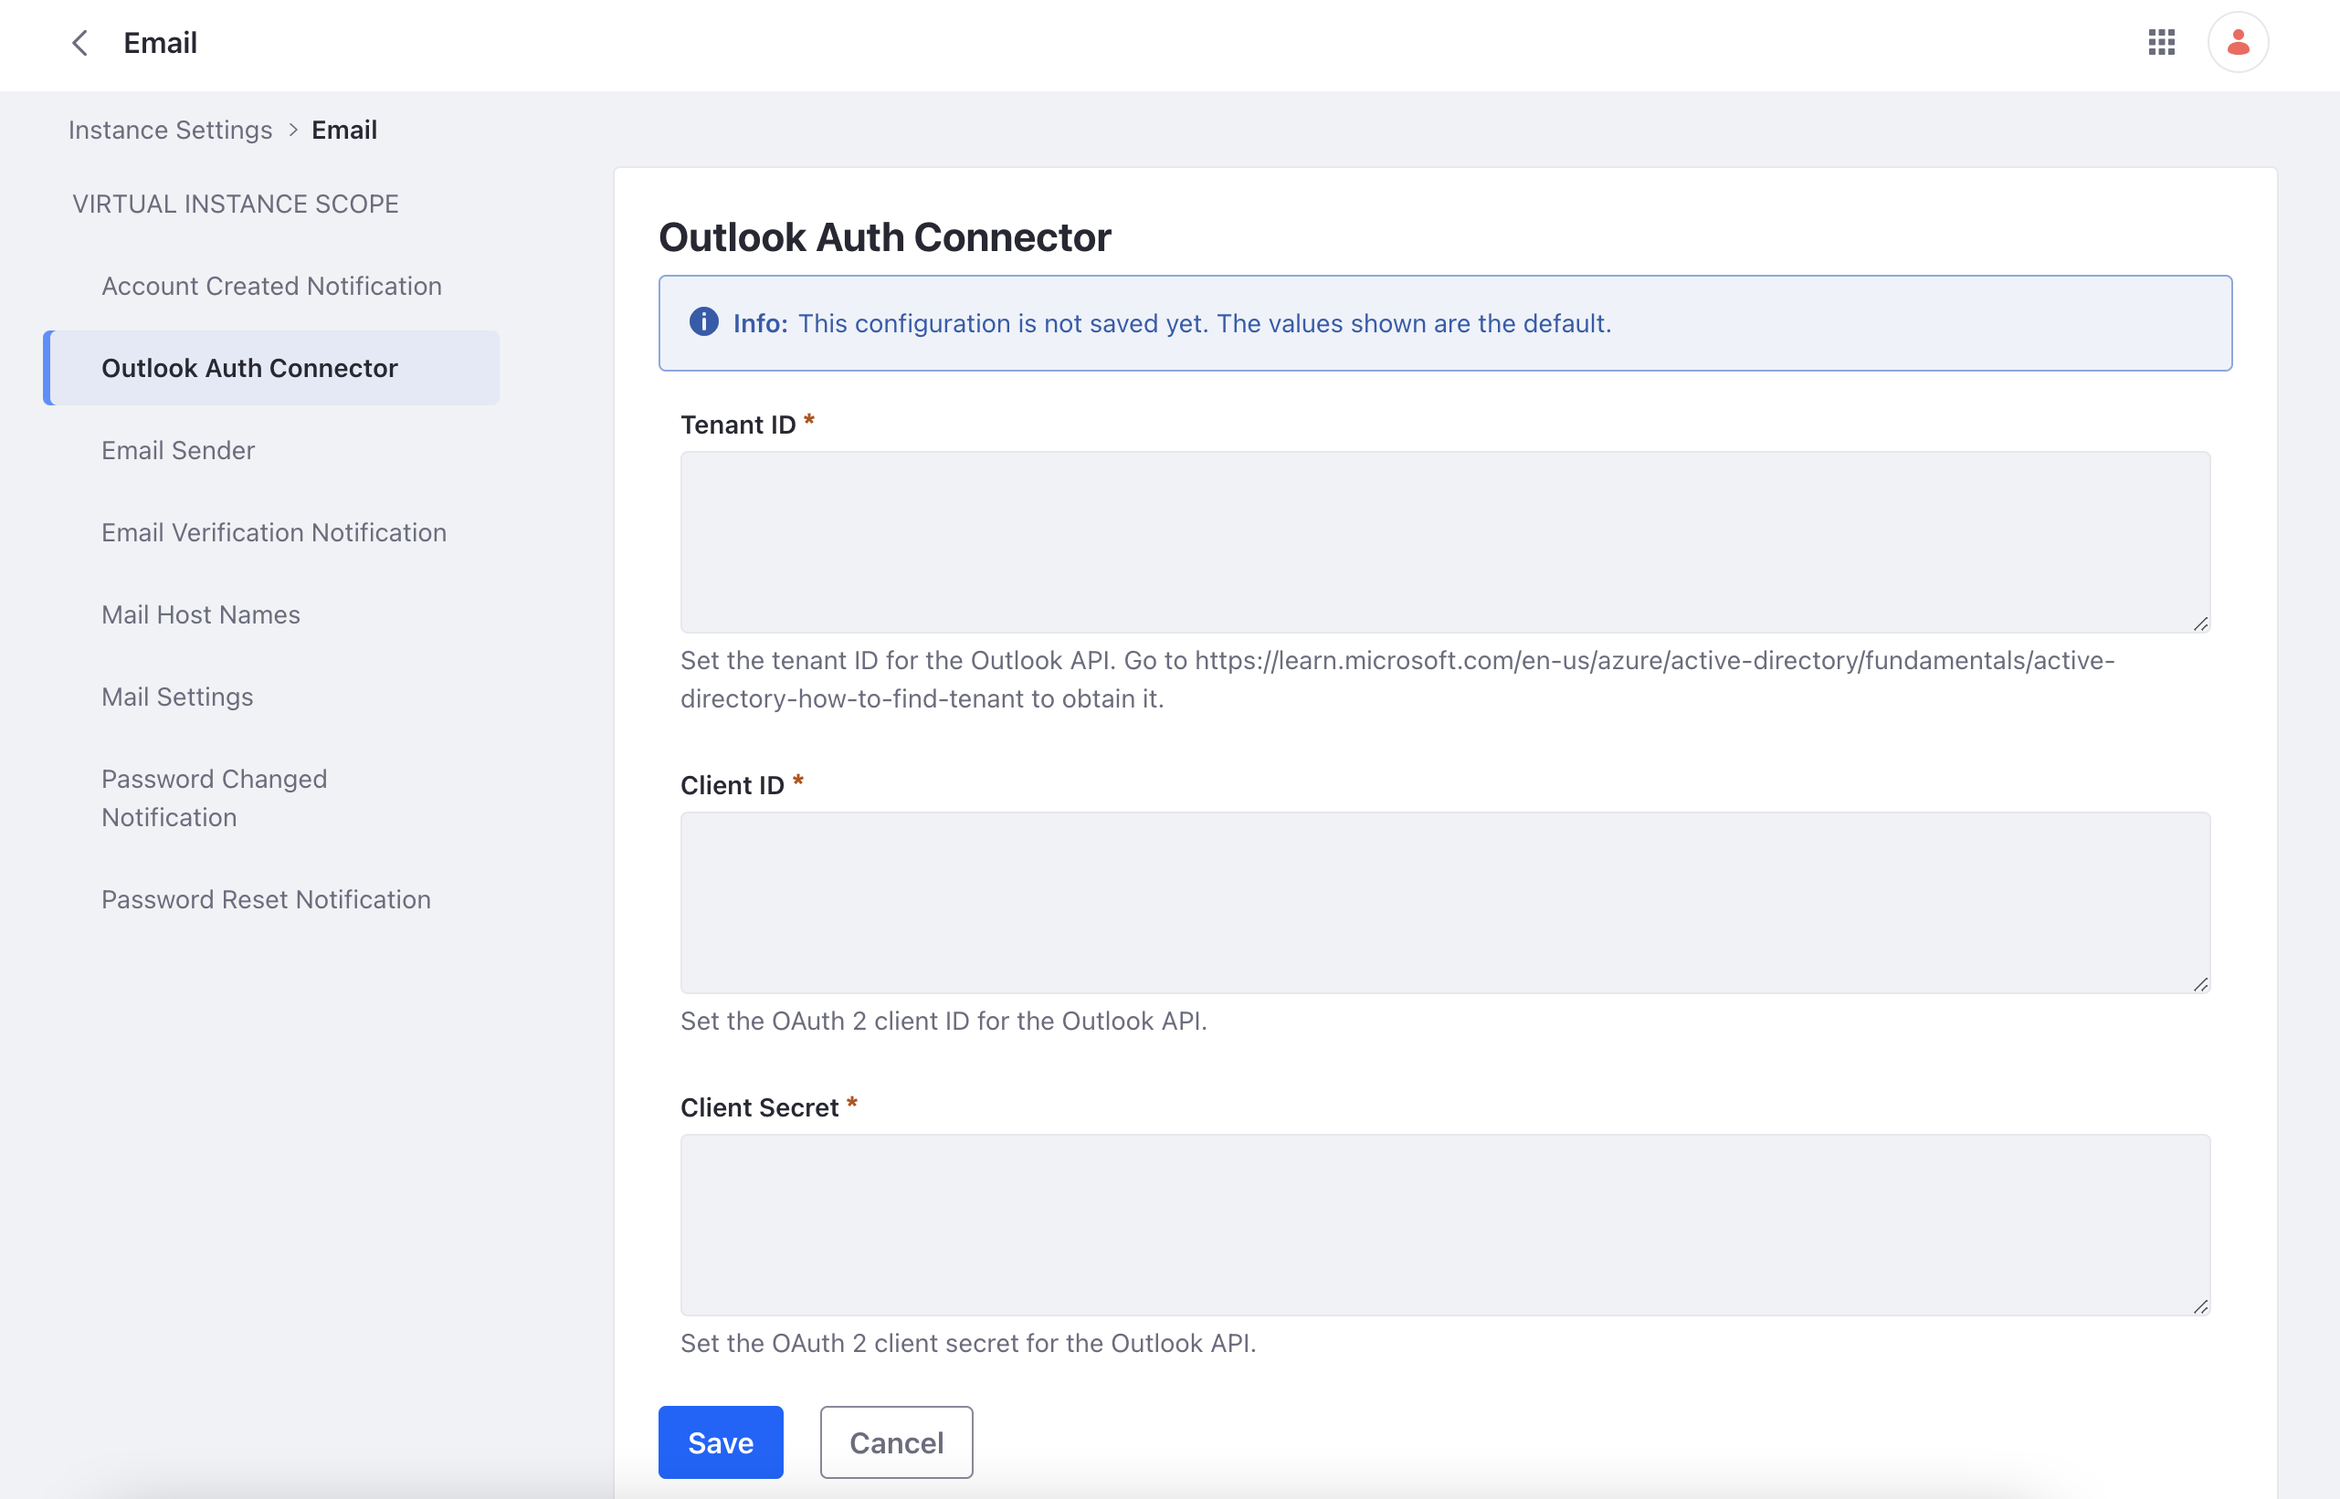
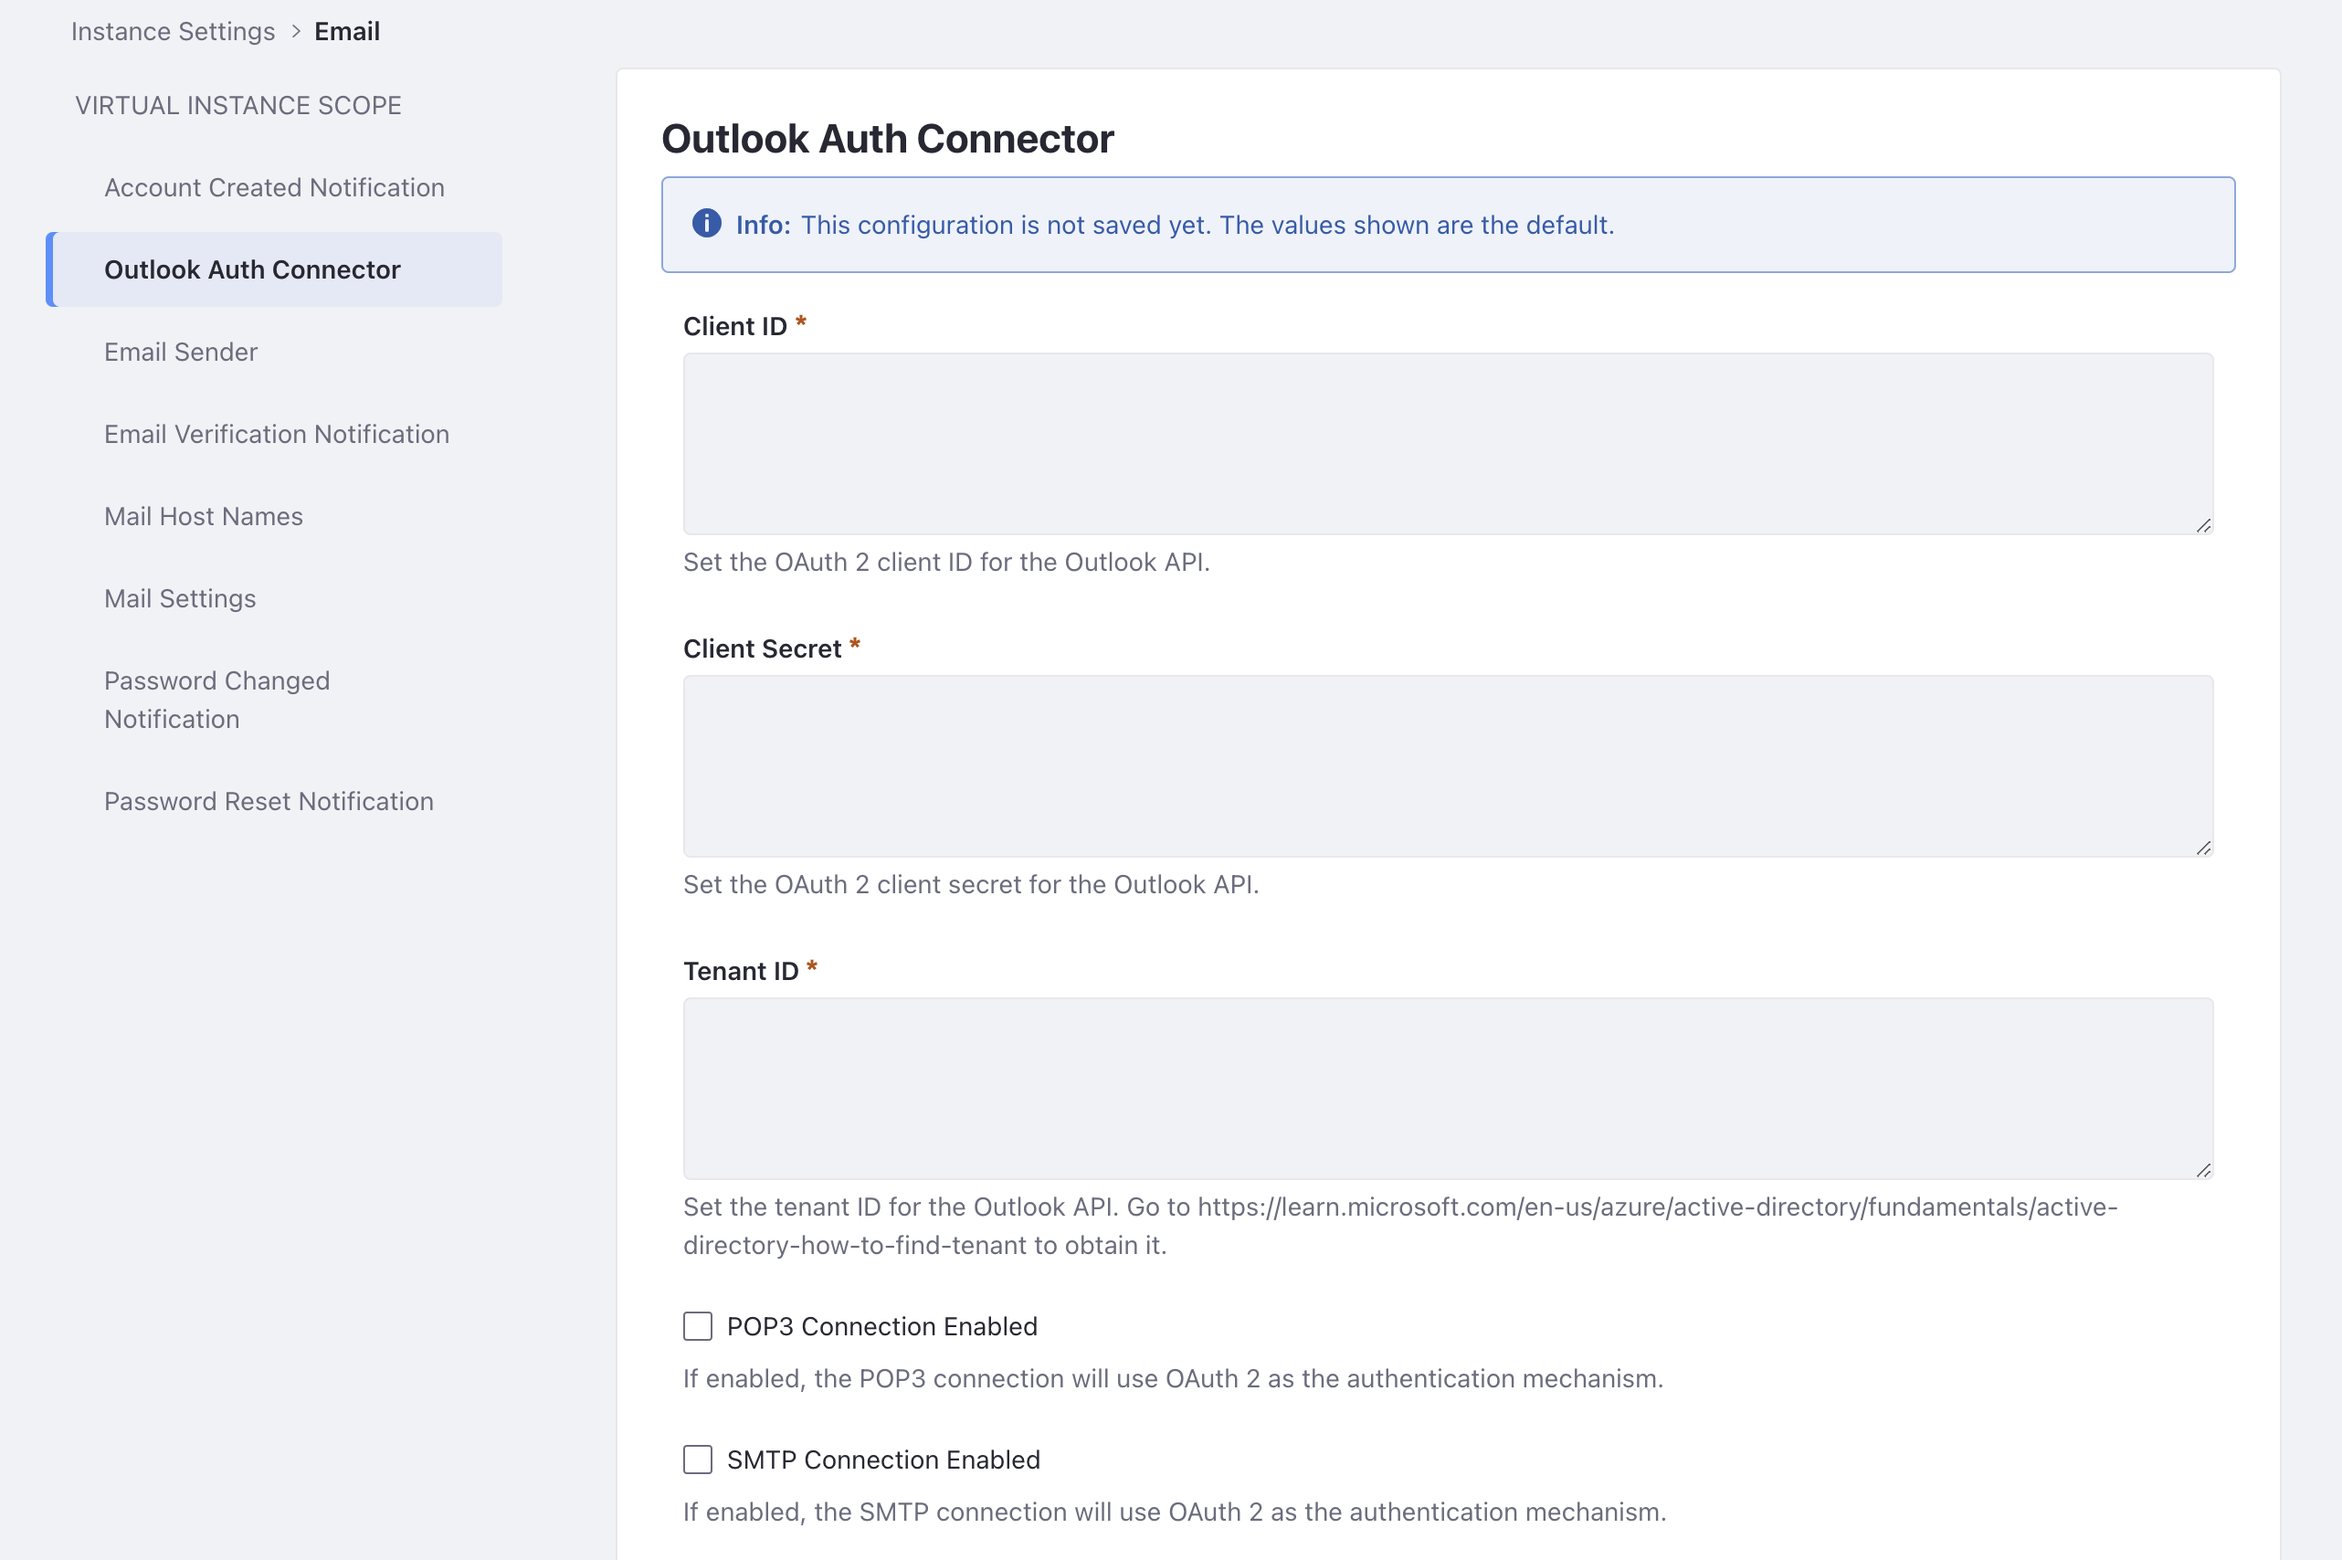
LRDOCS-11993 wordsmith1

diff --git a/docs/dxp/latest/en/installation-and-upgrades/setting-up-liferay/configuring-mail/configuring-office-365-with-oauth.md b/docs/dxp/latest/en/installation-and-upgrades/setting-up-liferay/configuring-mail/configuring-office-365-with-oauth.md
@@ -5,7 +5,7 @@ uuid: 49804344-72f6-4e92-aa84-5b99e2bfd982
 
 {bdg-secondary}`Available Liferay DXP 7.4 U79/Liferay Portal 7.4 GA79 and above`
 
-OAuth 2.0 authorization is required to connect your Microsoft email service with Liferay. Follow the configuration steps below.
+Connect your Microsoft email service to Liferay with the use of OAuth 2.0 authorization. Note, Microsoft requires OAuth2 and no longer supports basic authentication (i.e. connecting with email address and password).
 
 ## App Registration in Microsoft
 
@@ -29,16 +29,15 @@ For additional support or troubleshooting with this process, contact Microsoft.
 
 1. In the left navigation, click _Mail Settings_. Set the following configuration.
 
+   * Enable POP Server Notifications: checked
    * Incoming POP Server: `outlook.office365.com`
    * Incoming Port: `995`
    * Use a Secure Network Connection: checked
    * User Name: Your username associated with the Microsoft application
-   * Password: Your password
    * Outgoing SMTP Server: `smtp.office365.com`
    * Outgoing Port: `587`
-   * Use a Secure Network Connection: checked
+   * Enable StartTLS: checked
    * User Name: Your username associated with the Microsoft application
-   * Password: Your password
 
     Click _Save_.
 
@@ -46,7 +45,7 @@ For additional support or troubleshooting with this process, contact Microsoft.
 
     ![Paste in the tenant ID, client ID, and client secret values into each input box.](./configuring-office-365-with-oauth/images/01.png)
 
-    Click _Save_.
+1. Check the box for _POP3 Connection Enabled_ and for _SMTP Connection Enabled_.
 
 Liferay is now configured with your Microsoft email service.
 
